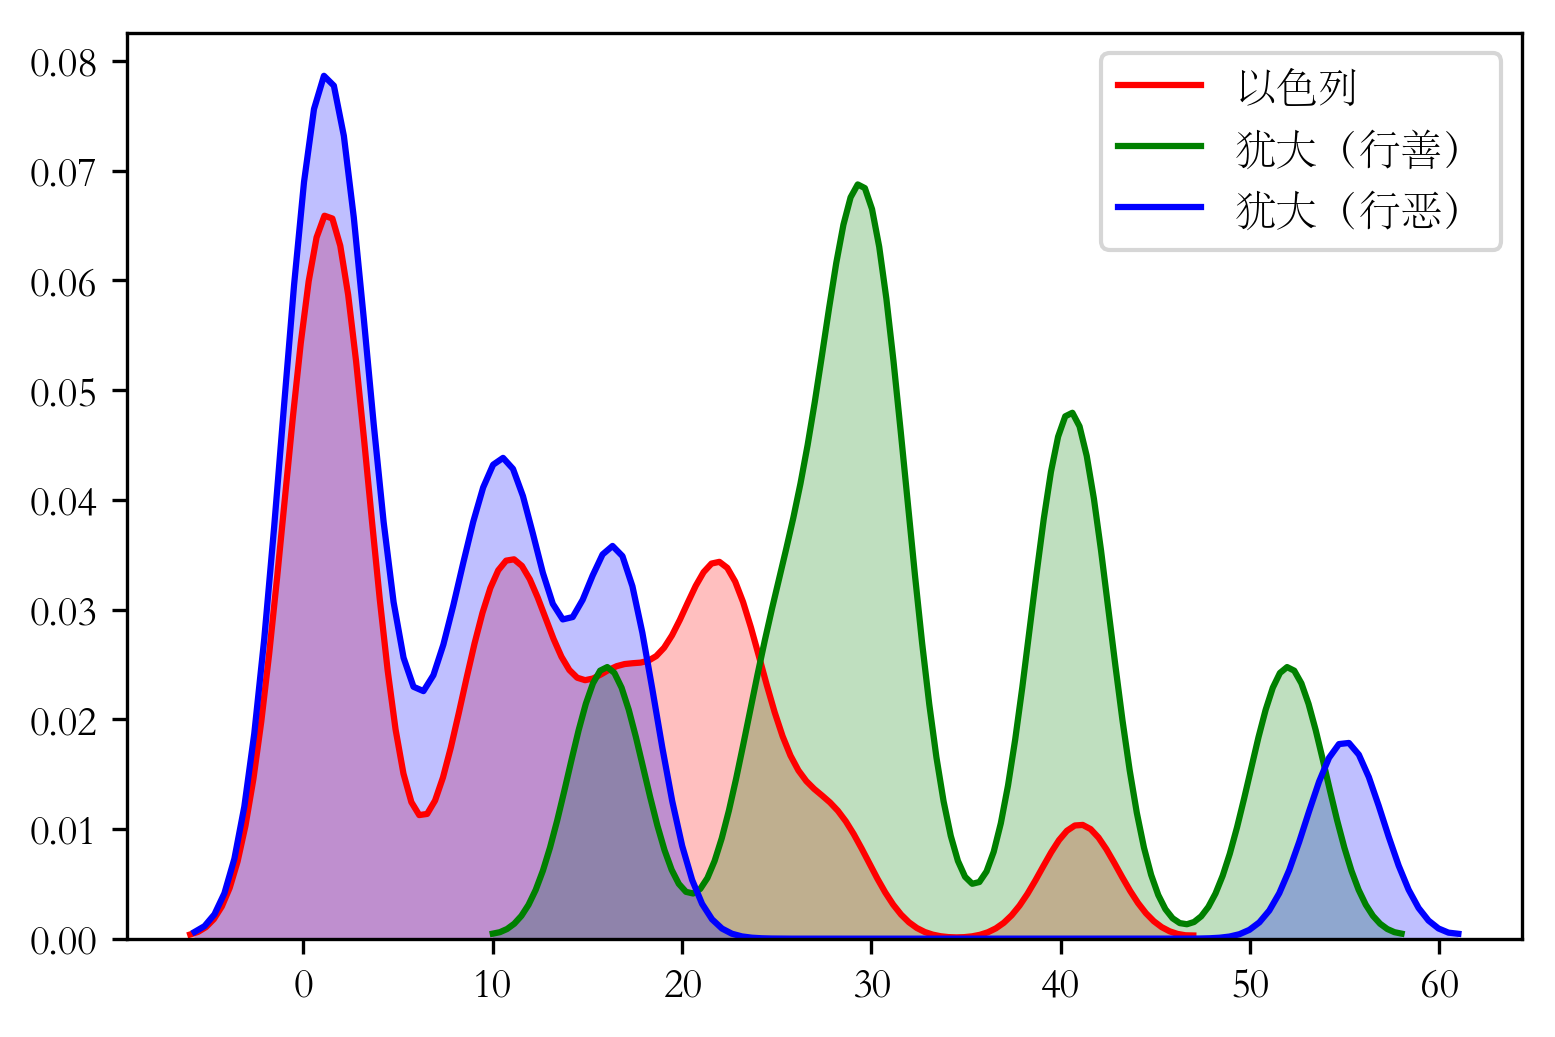
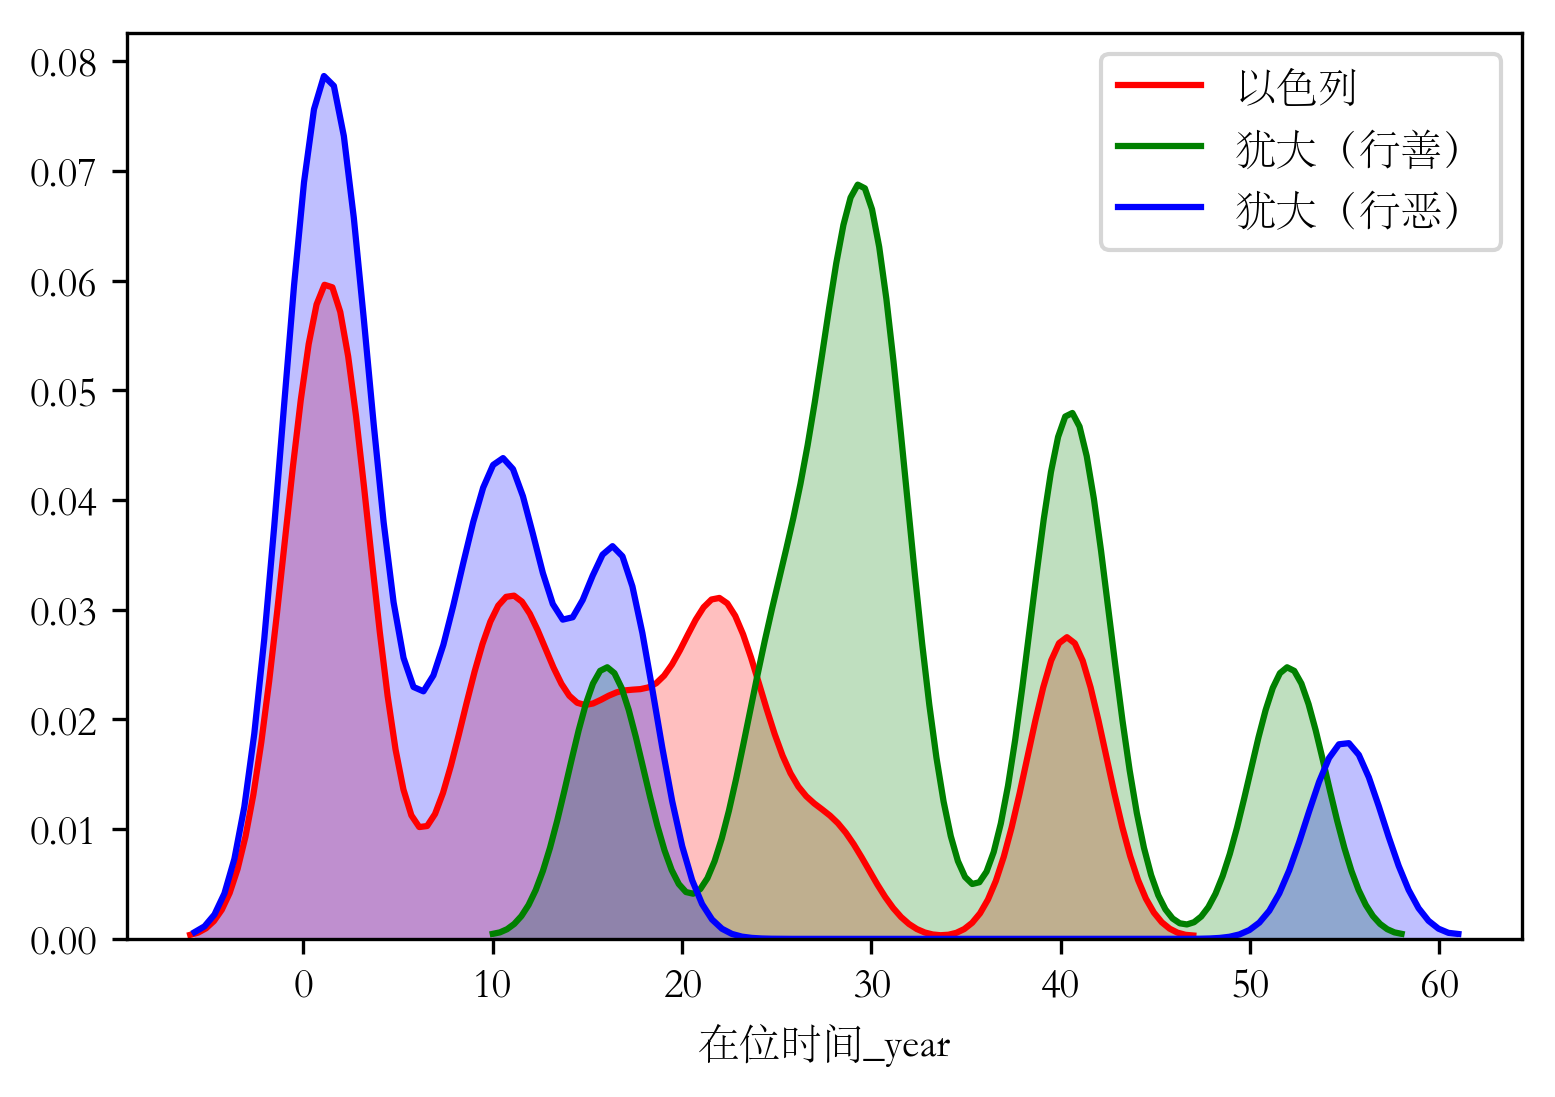
Update Samuel.xlsx

diff --git a/Samuel-Kings-Chronicles-notes/notes-analysis.py b/Samuel-Kings-Chronicles-notes/notes-analysis.py
@@ -42,6 +42,15 @@ def parse2year(duration):
 
 df['在位时间_year'] = df['在位时间'].map(parse2year)
 
+YSL_years = df.loc[df['国家']=='以色列', '在位时间_year']
+YD_years = df.loc[df['国家']=='犹大', '在位时间_year']
+YD_good_years = df.loc[(df['国家']=='犹大') & df['行善_indic'], '在位时间_year']
+YD_evil_years = df.loc[(df['国家']=='犹大') & df['行恶_indic'], '在位时间_year']
+
+print(YSL_years.mean())
+print(YD_years.mean())
+print(YD_good_years.mean())
+print(YD_evil_years.mean())
 
 import seaborn as sns
 import matplotlib.pyplot as plt
@@ -50,11 +59,11 @@ plt.rcParams['font.family'] = ['STSong']
 df = df.loc[~df['名'].isin(['扫罗', '大卫', '所罗门'])]
 fig, ax = plt.subplots(figsize=(6, 4))
 
-sns.distplot(df.loc[df['国家']=='以色列', '在位时间_year'].values, hist=False, 
+sns.distplot(YSL_years.values, hist=False, 
              color="r", kde_kws={"shade": True, "bw": 2}, ax=ax, label="以色列")
-sns.distplot(df.loc[(df['国家']=='犹大') & df['行善_indic'], '在位时间_year'].values, hist=False, 
+sns.distplot(YD_good_years.values, hist=False, 
              color="g", kde_kws={"shade": True, "bw": 2}, ax=ax, label="犹大（行善）")
-sns.distplot(df.loc[(df['国家']=='犹大') & ~df['行善_indic'], '在位时间_year'].values, hist=False, 
+sns.distplot(YD_evil_years, hist=False, 
              color="b", kde_kws={"shade": True, "bw": 2}, ax=ax, label="犹大（行恶）")
 fig.savefig('fig/reigning-years.png', bbox_inches='tight', dpi=300)
 

diff --git a/Samuel-Kings-Chronicles-notes/README.md b/Samuel-Kings-Chronicles-notes/README.md
@@ -3,7 +3,9 @@ Samuel-Kings-Chronicles-notes
 
 
 ## 以色列和犹大列王的统治时间
+圣经中，上帝对大卫和所罗门的应许中，多次提到了要“坚定国位”、“子孙不断坐国位”（撒下 7:12-13, 16; 王上 9:5），但也要求“谨守律例”（王上 9:4）。那么，以色列和犹大列王的在位时间，与他们行善行恶是否有关系呢？
+
+根据列王纪的记载，不计以色列统一时期的扫罗、大卫和所罗门，北国以色列诸王的平均统治时间为15.3年，南国犹大诸王的平均统治时间为20.4年，其中行善的王平均统治时间为32.9年，行恶的王平均统治时间为11.3年。其分布拟合结果如下图所示。
 
 ![Reigning Years Distribution](fig/reigning-years.png)
-
 
